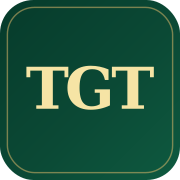
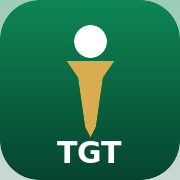
Add Golden Tee branding and navigation controls

diff --git a/src/App.jsx b/src/App.jsx
@@ -730,6 +730,14 @@ function ClosestToPinHoleSelector({ roundId, courseId, disabled = false }) {
     </section>
   );
 }
+function TgtTeeLogo({ compact = false }) {
+  return <span className={`tgt-tee-logo${compact ? " is-compact" : ""}`} aria-label="The Golden Tee Tour">
+    <span className="tgt-tee-ball" />
+    <span className="tgt-golden-tee" />
+    <strong>TGT</strong>
+  </span>;
+}
+
 function MitTgtBottomNav({ active = "profile", onProfile, onLeaderboard, onPlay, onLive, onMenu, playDisabled = false }) {
   const items = [
     { key: "profile", label: "Profil", action: onProfile, icon: <svg viewBox="0 0 24 24" aria-hidden="true"><circle cx="12" cy="8" r="3.4"/><path d="M5.5 20c.5-4.1 2.7-6.2 6.5-6.2s6 2.1 6.5 6.2"/></svg> },
@@ -2559,12 +2567,23 @@ function Leaderboard({ onOpenPlayerLogin, initialPortalView = null, onPortalNavi
         .tgt-public-topbar .tgt-wordmark{flex:1;justify-content:center;min-width:0}.tgt-player-appbar{display:grid!important;grid-template-columns:72px 1fr 42px!important}.tgt-player-appbar .tgt-player-brand{justify-self:center}
         .tgt-menu-page-head{position:relative}.tgt-menu-page-head>.tgt-app-back{position:absolute;left:12px;top:12px}.tgt-menu-page-head>div{text-align:center}
         @media(max-width:500px){.tgt-app-back span{display:none}.tgt-app-back{min-width:42px;width:42px}.tgt-player-appbar{grid-template-columns:42px 1fr 42px!important}}
+
+        /* Animated Golden Tee brand */
+        .tgt-tee-logo{position:relative;width:58px;height:66px;display:inline-block;flex:0 0 auto;color:#fff;overflow:visible}
+        .tgt-tee-logo strong{position:absolute;left:50%;bottom:0;transform:translateX(-50%);color:#fff!important;font:1000 13px/1 Arial,sans-serif;letter-spacing:.12em;white-space:nowrap}
+        .tgt-tee-ball{position:absolute;left:50%;top:0;width:16px;height:16px;transform:translateX(-50%);border-radius:50%;background:#fff;box-shadow:0 4px 12px rgba(0,0,0,.22);animation:tgtBallDrop .85s cubic-bezier(.2,.8,.25,1) both}
+        .tgt-golden-tee{position:absolute;left:50%;top:17px;width:28px;height:34px;transform:translateX(-50%);background:linear-gradient(135deg,#fff0ae,#d7ad4f 50%,#9b671d);clip-path:polygon(0 0,100% 0,64% 25%,57% 82%,50% 100%,43% 82%,36% 25%);transform-origin:50% 100%;animation:tgtTeeRise .7s ease-out both}
+        .tgt-tee-logo.is-compact{width:48px;height:52px}.tgt-tee-logo.is-compact .tgt-tee-ball{width:12px;height:12px}.tgt-tee-logo.is-compact .tgt-golden-tee{top:12px;width:22px;height:27px}.tgt-tee-logo.is-compact strong{font-size:10px}
+        @keyframes tgtBallDrop{0%{opacity:0;transform:translate(-50%,-15px) scale(.7)}70%{opacity:1;transform:translate(-50%,2px) scale(1.05)}100%{transform:translate(-50%,0) scale(1)}}
+        @keyframes tgtTeeRise{0%{opacity:0;transform:translate(-50%,10px) scaleY(.55)}100%{opacity:1;transform:translate(-50%,0) scaleY(1)}}
+        @media(prefers-reduced-motion:reduce){.tgt-tee-ball,.tgt-golden-tee{animation:none!important}}
+        .login-icon:has(.tgt-tee-logo){width:82px!important;height:88px!important;background:transparent!important;overflow:visible!important}
 `}</style>
 
       <header className="tgt-public-topbar">
         {isAuthenticated && <button type="button" className="tgt-app-back" aria-label="Tilbage til forrige side" onClick={()=>onPortalNavigate?.("__back__")}><svg viewBox="0 0 24 24" aria-hidden="true"><path d="m15 5-7 7 7 7"/></svg><span>Tilbage</span></button>}
         <div className="tgt-wordmark">
-          <span className="tgt-wordmark-mark">TGT</span>
+          <TgtTeeLogo compact />
           <span>
             THE GOLDEN TEE TOUR
             <small style={{ display: "block", opacity: .62, fontSize: 9, marginTop: 2 }}>
@@ -3652,7 +3671,18 @@ function PlayerLogin({ onCancel, onLoginSuccess }) {
         .tgt-public-shell:not(.tgt-hall-fullscreen) .tgt-kicker{border-color:rgba(255,255,255,.38)!important;color:#fff!important}
         .tgt-public-shell:not(.tgt-hall-fullscreen) .tgt-primary-action{border-color:#fff!important;color:#fff!important;background:#168454!important}
         .tgt-fixed-bottom-nav{border-color:rgba(255,255,255,.20)!important}.tgt-fixed-bottom-nav .tgt-fixed-nav-item{color:rgba(238,250,242,.72)!important}.tgt-fixed-bottom-nav .tgt-fixed-nav-item.is-active{color:#fff!important;background:rgba(255,255,255,.14)!important}.tgt-fixed-play-disc{border-color:#fff!important;color:#fff!important;background:linear-gradient(145deg,#ef5a61,#c9323a)!important}
-`}</style><section className="login-card"><div className="login-icon">⛳</div><p className="eyebrow">MIT TGT</p><h1>Mit TGT-login</h1><p className="description">Log ind på din personlige TGT-side.</p><form onSubmit={handleLogin}><label className="form-label">Brugernavn eller e-mail</label><input type="text" value={username} onChange={(event)=>setUsername(event.target.value)} placeholder="Brugernavn eller e-mail" autoComplete="username" required className="form-input"/><label className="form-label">Kodeord</label><input type="password" value={password} onChange={(event)=>setPassword(event.target.value)} placeholder="Indtast kodeord" autoComplete="current-password" required className="form-input"/>{loginError&&<div className="error-box">{loginError}</div>}<button type="submit" disabled={loggingIn} className="login-submit-button">{loggingIn?"Logger ind...":"Log ind"}</button><button type="button" onClick={onCancel} className="login-cancel-button">Tilbage til den offentlige side</button></form></section></main>;
+
+        /* Animated Golden Tee brand */
+        .tgt-tee-logo{position:relative;width:58px;height:66px;display:inline-block;flex:0 0 auto;color:#fff;overflow:visible}
+        .tgt-tee-logo strong{position:absolute;left:50%;bottom:0;transform:translateX(-50%);color:#fff!important;font:1000 13px/1 Arial,sans-serif;letter-spacing:.12em;white-space:nowrap}
+        .tgt-tee-ball{position:absolute;left:50%;top:0;width:16px;height:16px;transform:translateX(-50%);border-radius:50%;background:#fff;box-shadow:0 4px 12px rgba(0,0,0,.22);animation:tgtBallDrop .85s cubic-bezier(.2,.8,.25,1) both}
+        .tgt-golden-tee{position:absolute;left:50%;top:17px;width:28px;height:34px;transform:translateX(-50%);background:linear-gradient(135deg,#fff0ae,#d7ad4f 50%,#9b671d);clip-path:polygon(0 0,100% 0,64% 25%,57% 82%,50% 100%,43% 82%,36% 25%);transform-origin:50% 100%;animation:tgtTeeRise .7s ease-out both}
+        .tgt-tee-logo.is-compact{width:48px;height:52px}.tgt-tee-logo.is-compact .tgt-tee-ball{width:12px;height:12px}.tgt-tee-logo.is-compact .tgt-golden-tee{top:12px;width:22px;height:27px}.tgt-tee-logo.is-compact strong{font-size:10px}
+        @keyframes tgtBallDrop{0%{opacity:0;transform:translate(-50%,-15px) scale(.7)}70%{opacity:1;transform:translate(-50%,2px) scale(1.05)}100%{transform:translate(-50%,0) scale(1)}}
+        @keyframes tgtTeeRise{0%{opacity:0;transform:translate(-50%,10px) scaleY(.55)}100%{opacity:1;transform:translate(-50%,0) scaleY(1)}}
+        @media(prefers-reduced-motion:reduce){.tgt-tee-ball,.tgt-golden-tee{animation:none!important}}
+        .login-icon:has(.tgt-tee-logo){width:82px!important;height:88px!important;background:transparent!important;overflow:visible!important}
+`}</style><section className="login-card"><div className="login-icon"><TgtTeeLogo /></div><p className="eyebrow">MIT TGT</p><h1>Mit TGT-login</h1><p className="description">Log ind på din personlige TGT-side.</p><form onSubmit={handleLogin}><label className="form-label">Brugernavn eller e-mail</label><input type="text" value={username} onChange={(event)=>setUsername(event.target.value)} placeholder="Brugernavn eller e-mail" autoComplete="username" required className="form-input"/><label className="form-label">Kodeord</label><input type="password" value={password} onChange={(event)=>setPassword(event.target.value)} placeholder="Indtast kodeord" autoComplete="current-password" required className="form-input"/>{loginError&&<div className="error-box">{loginError}</div>}<button type="submit" disabled={loggingIn} className="login-submit-button">{loggingIn?"Logger ind...":"Log ind"}</button><button type="button" onClick={onCancel} className="login-cancel-button">Tilbage til den offentlige side</button></form></section></main>;
 }
 function MitTgtMenuPage({ onNavigate, onLogout }) {
   const menuItems = [
@@ -4105,10 +4135,21 @@ function PlayerDashboard({ session, onLogout, onStartScoring, onNavigate, initia
         .tgt-public-topbar .tgt-wordmark{flex:1;justify-content:center;min-width:0}.tgt-player-appbar{display:grid!important;grid-template-columns:72px 1fr 42px!important}.tgt-player-appbar .tgt-player-brand{justify-self:center}
         .tgt-menu-page-head{position:relative}.tgt-menu-page-head>.tgt-app-back{position:absolute;left:12px;top:12px}.tgt-menu-page-head>div{text-align:center}
         @media(max-width:500px){.tgt-app-back span{display:none}.tgt-app-back{min-width:42px;width:42px}.tgt-player-appbar{grid-template-columns:42px 1fr 42px!important}}
+
+        /* Animated Golden Tee brand */
+        .tgt-tee-logo{position:relative;width:58px;height:66px;display:inline-block;flex:0 0 auto;color:#fff;overflow:visible}
+        .tgt-tee-logo strong{position:absolute;left:50%;bottom:0;transform:translateX(-50%);color:#fff!important;font:1000 13px/1 Arial,sans-serif;letter-spacing:.12em;white-space:nowrap}
+        .tgt-tee-ball{position:absolute;left:50%;top:0;width:16px;height:16px;transform:translateX(-50%);border-radius:50%;background:#fff;box-shadow:0 4px 12px rgba(0,0,0,.22);animation:tgtBallDrop .85s cubic-bezier(.2,.8,.25,1) both}
+        .tgt-golden-tee{position:absolute;left:50%;top:17px;width:28px;height:34px;transform:translateX(-50%);background:linear-gradient(135deg,#fff0ae,#d7ad4f 50%,#9b671d);clip-path:polygon(0 0,100% 0,64% 25%,57% 82%,50% 100%,43% 82%,36% 25%);transform-origin:50% 100%;animation:tgtTeeRise .7s ease-out both}
+        .tgt-tee-logo.is-compact{width:48px;height:52px}.tgt-tee-logo.is-compact .tgt-tee-ball{width:12px;height:12px}.tgt-tee-logo.is-compact .tgt-golden-tee{top:12px;width:22px;height:27px}.tgt-tee-logo.is-compact strong{font-size:10px}
+        @keyframes tgtBallDrop{0%{opacity:0;transform:translate(-50%,-15px) scale(.7)}70%{opacity:1;transform:translate(-50%,2px) scale(1.05)}100%{transform:translate(-50%,0) scale(1)}}
+        @keyframes tgtTeeRise{0%{opacity:0;transform:translate(-50%,10px) scaleY(.55)}100%{opacity:1;transform:translate(-50%,0) scaleY(1)}}
+        @media(prefers-reduced-motion:reduce){.tgt-tee-ball,.tgt-golden-tee{animation:none!important}}
+        .login-icon:has(.tgt-tee-logo){width:82px!important;height:88px!important;background:transparent!important;overflow:visible!important}
 `}</style><section className="tgt-player-home">
   <header className="tgt-player-appbar">
     <button type="button" className="tgt-app-back" aria-label="Tilbage til forrige side" onClick={()=>onNavigate("__back__")}><svg viewBox="0 0 24 24" aria-hidden="true"><path d="m15 5-7 7 7 7"/></svg><span>Tilbage</span></button>
-    <div className="tgt-player-brand"><span className="tgt-player-brandmark">TGT</span><span><strong>MIT TGT</strong><small>THE GOLDEN TEE TOUR</small></span></div>
+    <div className="tgt-player-brand"><TgtTeeLogo compact /><span><strong>MIT TGT</strong><small>THE GOLDEN TEE TOUR</small></span></div>
     <button type="button" className="tgt-app-burger" aria-label="Åbn menu" onClick={()=>onNavigate("menu")}><svg viewBox="0 0 24 24" aria-hidden="true"><path d="M4 7h16M4 12h16M4 17h16"/></svg></button>
   </header>
   <section className="tgt-player-head"><div><p className="eyebrow" style={{color:"#dff0e5"}}>MIN PROFIL</p><h1>Hej {profile?.name?.split(" ")[0]??"spiller"}</h1><div className="tgt-player-meta"><span>{dguNumber}</span><span>{clubName}</span></div></div></section>
